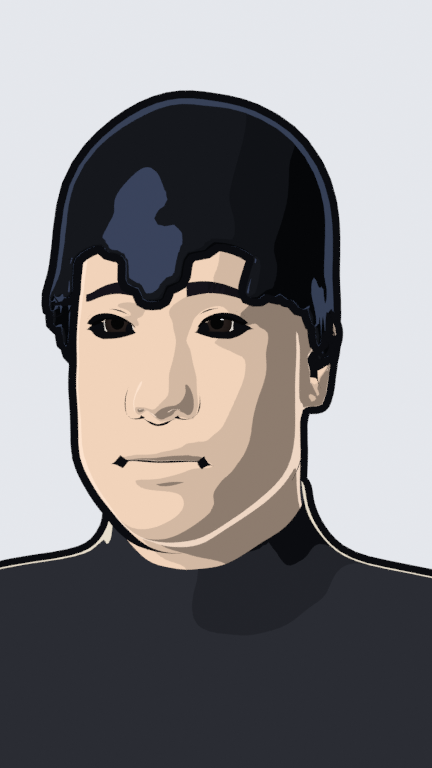
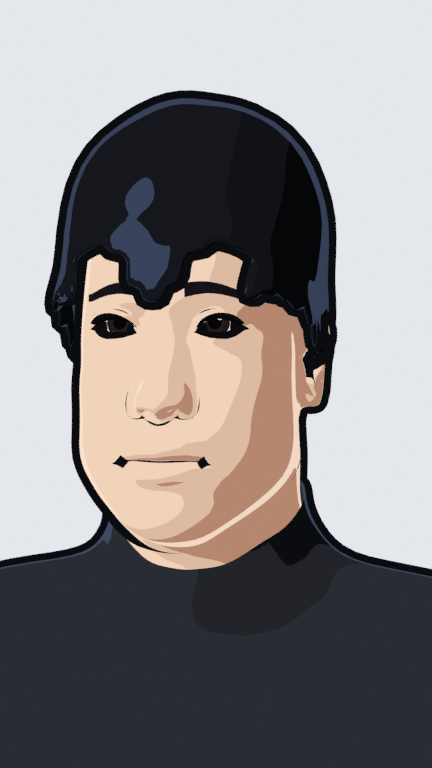
Hero gets a webtoon fighter build
Muscle body target with the lean face kept, V-taper torso, thicker arms around the bone axis,
fitted short-sleeve black T-shirt, ink crease lines in concave areas below the neck.
The look applies only to the lead (HERO_LOOK).

Claude-Session: https://claude.ai/code/session_01RmZcNKw4UE8v1k2Jyijr8e

diff --git a/lookdev/character_mh.py b/lookdev/character_mh.py
@@ -28,6 +28,11 @@ BODY = {
                "universal-male-young-averagemuscle-minweight.target": 0.45,
                "male-young-averagemuscle-averageweight-maxheight.target": 0.7,
                "male-young-averagemuscle-averageweight-idealproportions.target": 1.0},
+    "m_muscle": {"asian-male-young.target": 0.75, "caucasian-male-young.target": 0.25,
+                 "universal-male-young-maxmuscle-averageweight.target": 1.15,
+                 "universal-male-young-averagemuscle-minweight.target": 0.55,
+                 "male-young-averagemuscle-averageweight-maxheight.target": 0.7,
+                 "male-young-averagemuscle-averageweight-idealproportions.target": 1.0},
     "m_heavy": {"asian-male-young.target": 0.5, "african-male-young.target": 0.2, "caucasian-male-young.target": 0.3,
                 "universal-male-young-averagemuscle-maxweight.target": 0.55,
                 "male-young-averagemuscle-averageweight-idealproportions.target": 0.6},
@@ -42,6 +47,9 @@ BODY = {
 HERO = dict(body="m_lean", height=1.9, skin=("#efcfb4", "#b0806a"), hair="slick", hair_col="#101216", locks=True,
             top=("#1d1f25", "#07080b"), turtleneck=False, coat=None, manhwa_head=True,
             legs="trousers", leg_col=("#2b2e35", "#0b0c10"), shoes=("#141416", "#3a3236"), brows="#121014", iris="#2a2220")
+
+# the lead's fighter build (only when build() is given HERO itself): webtoon muscle anatomy
+HERO_LOOK = dict(body="m_muscle", vtaper=True, sleeves="short", crease=0.012)
 
 def set_interp(idblock, kind="LINEAR", data_path=None):
     """Force interpolation on an ID's keyframes (Blender 5 ignores the new-key preference in background mode)."""
@@ -119,8 +127,9 @@ def _nodes(m):
         return n.outputs[2]
     return N, L, mth, mix
 
-def cel(hexc, shade=None, rim="#cdeffd", spec=0.0, spec_col="#ffffff", light=(-0.55, -0.7, 0.55), rim_amt=0.8, name=None, glow=1.0):
-    key = (hexc, shade, rim, spec, spec_col, light, rim_amt, glow)
+def cel(hexc, shade=None, rim="#cdeffd", spec=0.0, spec_col="#ffffff", light=(-0.55, -0.7, 0.55), rim_amt=0.8, name=None, glow=1.0,
+        crease=0.0, crease_zmax=99.0):
+    key = (hexc, shade, rim, spec, spec_col, light, rim_amt, glow, crease, crease_zmax, name)
     if key in _cache:
         return _cache[key]
     m = bpy.data.materials.new(name or f"cel_{hexc}")
@@ -140,6 +149,11 @@ def cel(hexc, shade=None, rim="#cdeffd", spec=0.0, spec_col="#ffffff", light=(-0
         hn = N.new("ShaderNodeVectorMath"); hn.operation = "NORMALIZE"; L.new(h.outputs[0], hn.inputs[0])
         d2 = N.new("ShaderNodeVectorMath"); d2.operation = "DOT_PRODUCT"; L.new(geo.outputs["Normal"], d2.inputs[0]); L.new(hn.outputs[0], d2.inputs[1])
         c = mix(mth("MULTIPLY", mth("GREATER_THAN", d2.outputs["Value"], 1 - spec), 0.9), c, lin(spec_col))
+    if crease:   # webtoon muscle lines: ink the concave creases between muscle masses (Cycles pointiness)
+        cav = mth("LESS_THAN", geo.outputs["Pointiness"], 0.5 - crease)
+        tc = N.new("ShaderNodeTexCoord"); sep = N.new("ShaderNodeSeparateXYZ"); L.new(tc.outputs["Object"], sep.inputs[0])
+        cav = mth("MULTIPLY", cav, mth("LESS_THAN", sep.outputs["Z"], crease_zmax))
+        c = mix(mth("MULTIPLY", cav, 0.85), c, tuple(x * 0.35 for x in sh[:3]) + (1.0,))
     lw = N.new("ShaderNodeLayerWeight"); lw.inputs["Blend"].default_value = 0.3
     c = mix(mth("MULTIPLY", mth("GREATER_THAN", lw.outputs["Facing"], 0.6), rim_amt), c, lin(rim))
     e = N.new("ShaderNodeEmission"); e.inputs["Strength"].default_value = glow
@@ -271,9 +285,18 @@ def bone_parent(ob, arm, bone):
 
 # ---------------------------------------------------------------- build
 def build(coll, location=(0, 0, 0), style=None, pose_mode="walk", heading=0.0):
-    st = dict(HERO); st.update(style or {})
+    st = dict(HERO, **HERO_LOOK) if style is None or style is HERO else dict(HERO)
+    st.update(style if style is not None and style is not HERO else {})
     V, F, G = load_base(st["body"])
     sk, per_vert = load_rig()
+    if st["body"] == "m_muscle":   # keep the lean face and neck on the muscular body (the muscle target widens the jaw)
+        Vl = load_base("m_lean")[0]
+        nidx = sk["joints"][sk["bones"]["neck02"]["head"]]
+        cm = sum((V[i] for i in nidx), Vector()) / len(nidx); cl = sum((Vl[i] for i in nidx), Vector()) / len(nidx)
+        for i in range(len(V)):
+            t = max(0.0, min(1.0, (Vl[i].z - cl.z + 0.01) / 0.05))
+            if t > 0:
+                V[i] = V[i].lerp(Vl[i] + (cm - cl), t)
     body_faces = [f for f, g in zip(F, G) if g == "body"]
     zmin = min(V[i].z for f in body_faces for i in f)
     for v in V:
@@ -291,6 +314,37 @@ def build(coll, location=(0, 0, 0), style=None, pose_mode="walk", heading=0.0):
             jaw = max(0.0, min(1.0, (eye_z - 0.02 - v.z) / 0.085)) * t   # cheekbone -> chin: V-line jaw
             v.x *= 1.0 - 0.2 * jaw
             v.z -= 0.01 * jaw                                    # slightly longer chin
+    if st.get("vtaper"):   # webtoon fighter build: wide shoulders and lats, narrow waist, arms pushed out
+        jz = lambda n: sum(V[i].z for i in sk["joints"][sk["bones"][n]["head"]]) / len(sk["joints"][sk["bones"][n]["head"]])
+        waist = jz("spine04"); chest = jz("spine01"); nk = jz("neck01")
+        dm = {i: max(lst, key=lambda t: t[1])[0] for i, lst in per_vert.items()}
+        torso = ("spine", "pelvis", "breast", "clavicle", "shoulder", "neck01", "pectoral")
+        arms = ("upperarm", "lowerarm", "wrist", "finger", "metacarpal")
+        def sx(z):   # torso width factor by height
+            if z < waist - 0.12: return 1.0
+            if z < waist: return 1.0 - 0.07 * (z - (waist - 0.12)) / 0.12
+            if z < chest: return 0.93 + 0.19 * (z - waist) / max(chest - waist, 1e-3)
+            return 1.12 - 0.12 * min(1.0, (z - chest) / max(nk - chest, 1e-3))
+        for i, v in enumerate(V):
+            b = dm.get(i, "")
+            if b.startswith(torso):
+                f = sx(v.z); v.x *= f
+                if waist < v.z < nk: v.y *= 1.0 + 0.05 * (f - 1.0) / 0.12   # deeper chest
+            elif b.startswith(arms):
+                v.x += math.copysign(0.022, v.x)                          # arms ride on the wider shoulders
+        # thicker arms: push arm skin away from the bone axis (biceps/triceps and forearm mass)
+        jp = lambda n: sum((V[i] for i in sk["joints"][sk["bones"][n]["head"]]), Vector()) / len(sk["joints"][sk["bones"][n]["head"]])
+        for side in ("L", "R"):
+            sh_, el, wr = jp(f"upperarm01.{side}"), jp(f"lowerarm01.{side}"), jp(f"wrist.{side}")
+            for i, v in enumerate(V):
+                b = dm.get(i, "")
+                if not b.endswith("." + side) or not b.startswith(("upperarm", "lowerarm")):
+                    continue
+                a0, a1, gain = (sh_, el, 0.3) if b.startswith("upperarm") else (el, wr, 0.2)
+                ax = a1 - a0; t = max(0.0, min(1.0, (v - a0).dot(ax) / ax.length_squared))
+                bulge = gain * math.sin(math.pi * min(1.0, t * 1.15)) ** 0.7     # belly of the muscle mid-segment
+                foot = a0 + ax * t; r = v - foot
+                V[i] = foot + r * (1.0 + bulge)
     jpos = {j: sum((V[i] for i in idx), Vector()) / len(idx) for j, idx in sk["joints"].items()}
     dom = {i: max(lst, key=lambda t: t[1])[0] for i, lst in per_vert.items()}
     def region(f, names):
@@ -323,11 +377,13 @@ def build(coll, location=(0, 0, 0), style=None, pose_mode="walk", heading=0.0):
     # --- skin: head, neck, hands (+ lower legs under a skirt)
     keep = ["head", "jaw", "neck", "eye", "oculi", "orbicularis", "oris", "levator", "risorius", "temporalis",
             "special", "tongue", "wrist", "finger", "metacarpal", "lowerarm02"]
+    if st.get("sleeves") == "short":
+        keep += ["lowerarm01", "upperarm02"]
     skin_faces = [f for f in body_faces if region(f, keep)]
     if st.get("socks"):   # school uniform: bare legs between hem and knee socks
         knee_z0 = jpos[sk["bones"]["lowerleg01.L"]["head"]].z
         skin_faces += [f for f in body_faces if region(f, ("upperleg", "lowerleg")) and min(V[i].z for i in f) > knee_z0 - 0.08]
-    SKIN = cel(st["skin"][0], st["skin"][1], rim="#ffe6d2", name="skin")
+    SKIN = cel(st["skin"][0], st["skin"][1], rim="#ffe6d2", name="skin", crease=st.get("crease", 0.0), crease_zmax=J("neck01").z - 0.03)
     skin, used = make_mesh("skin", coll, V, skin_faces); skin.data.materials.append(SKIN); finish(skin, used)
 
     bused = sorted({i for f in body_faces for i in f})
@@ -341,13 +397,15 @@ def build(coll, location=(0, 0, 0), style=None, pose_mode="walk", heading=0.0):
 
     # --- top (knit): fits the body 4 mm off the skin
     TOP = ("spine", "clavicle", "shoulder", "upperarm", "lowerarm01", "breast", "neck01", "neck02", "pelvis")
+    if st.get("sleeves") == "short":   # fitted T-shirt: sleeve ends on the upper arm
+        TOP = ("spine", "clavicle", "shoulder", "upperarm01", "breast", "neck01", "neck02", "pelvis")
     neck_cut = chin_z - (0.035 if st.get("turtleneck", True) else 0.075)
-    sleeve = ("lowerarm",) if not st.get("coat") else ()
+    sleeve = ("lowerarm",) if not st.get("coat") and st.get("sleeves") != "short" else ()
     tn_faces = [f for f in body_faces if region(f, TOP + sleeve) and min(V[i].z for i in f) > pelvis_z - 0.12
                 and max(V[i].z for i in f) < neck_cut]
     off = {i: nrm[i] * 0.004 for f in tn_faces for i in f}
     tn, used = make_mesh("top", coll, V, tn_faces, off)
-    tn.data.materials.append(cel(st["top"][0], st["top"][1], rim="#fff4e0" if sum(lin(st["top"][0])[:3]) > 0.3 else "#4a5874", rim_amt=0.8 if sum(lin(st["top"][0])[:3]) > 0.3 else 0.6, name="knit")); finish(tn, used)
+    tn.data.materials.append(cel(st["top"][0], st["top"][1], rim="#fff4e0" if sum(lin(st["top"][0])[:3]) > 0.3 else "#4a5874", rim_amt=0.8 if sum(lin(st["top"][0])[:3]) > 0.3 else 0.6, name="knit", crease=st.get("crease", 0.0))); finish(tn, used)
 
     # --- coat / jacket
     if st.get("coat"):
